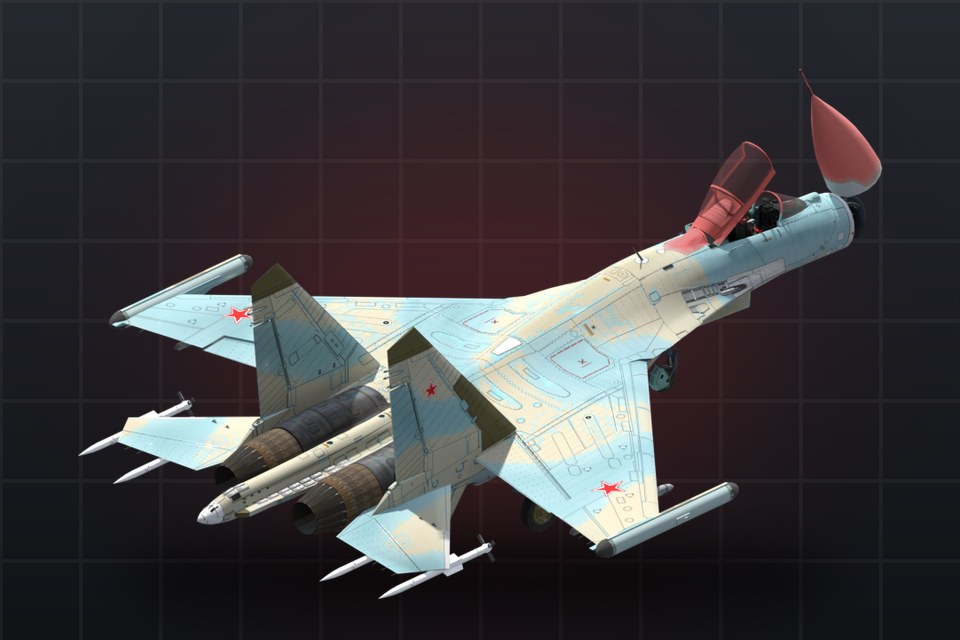
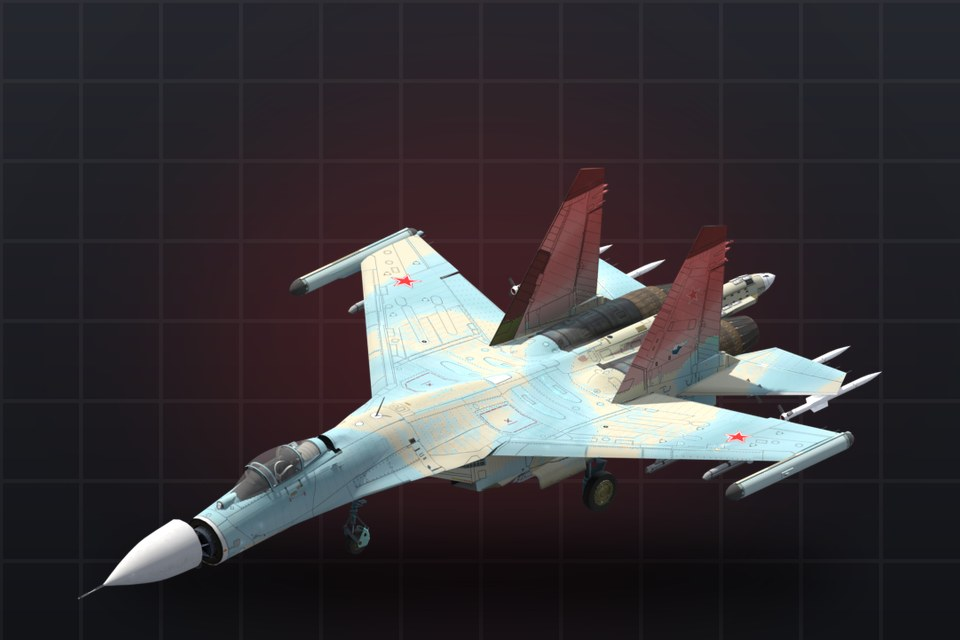
Sk-27 Flankard: close radome and canopy, team colour on the tail fins
The source model was posed for maintenance (radome swung up, canopy open)
and the team-colour box assumed the nose points the other way, so the jet
flew with a green open nose and cockpit and its catalogue view showed it
from behind. artsrc/units/meshes/fix_su27_pose.py closes both parts and
moves the team colour to the tail fins; sprites, stores, sidebar cameo and
catalogue picture re-rendered (cameo nose-first like the other jets).

Changed region(s): [[0.0938, 0.1562, 0.9375, 0.9375]]

diff --git a/artsrc/units/meshes/fix_su27_pose.py b/artsrc/units/meshes/fix_su27_pose.py
@@ -1,0 +1,106 @@
+"""
+The Sk-27 Flankard's source model (Sketchfab Su-27P) is posed for maintenance: the radome is swung up and the
+canopy is open, and both sit in the team-colour box (green in the renders). This closes them in sk-27-flankard.blend:
+the radome is turned so its axis points forward and its base ring meets the front of the hull; the canopy and its
+glass are turned down about their rear hinge until they lie level on the fuselage. The team-colour mask is moved
+from the cockpit to the tail fins (the import box assumed the nose points the other way).
+
+  blender -b artsrc/units/meshes/sk-27-flankard.blend -P artsrc/units/meshes/fix_su27_pose.py [-- --save]
+"""
+import sys
+
+import bpy
+import numpy as np
+from mathutils import Matrix, Vector
+
+SAVE = "--save" in sys.argv
+
+
+def obj(prefix):
+    return next(o for o in bpy.data.objects if o.type == "MESH" and o.name.startswith(prefix))
+
+
+def world_verts(o):
+    m = o.matrix_world
+    return np.array([tuple(m @ v.co) for v in o.data.vertices])
+
+
+def apply(o, transform):
+    """Apply a world-space 4x4 transform to the object's vertices (keeping the object transform)."""
+    m = o.matrix_world
+    inv = m.inverted()
+    t = inv @ transform @ m
+    for v in o.data.vertices:
+        v.co = t @ v.co
+    o.data.update()
+
+
+def rotation_between(a, b):
+    a, b = Vector(a).normalized(), Vector(b).normalized()
+    return a.rotation_difference(b).to_matrix().to_4x4()
+
+
+hull = obj("hull_")
+nose = obj("nose_Material")
+canopy = obj("canopy_")
+glass = obj("glass_")
+
+# Front opening of the hull: its foremost vertices (smallest y)
+hv = world_verts(hull)
+front = hv[hv[:, 1] < hv[:, 1].min() + 0.08]
+H = front.mean(axis=0)
+
+# Radome: a cone. Its tip is the vertex furthest from the hull front; its base ring is the widest end
+nv = world_verts(nose)
+c = nv.mean(axis=0)
+_, _, vt = np.linalg.svd(nv - c)
+axis = vt[0]
+proj = (nv - c) @ axis
+tip_end = 1 if abs(proj.max()) > abs(proj.min()) else -1
+# The base is the end whose cross-section is wider
+lo, hi = nv[proj < proj.min() + 0.08], nv[proj > proj.max() - 0.08]
+spread = lambda p: np.linalg.norm(p - p.mean(axis=0), axis=1).mean()
+base, tipside = (lo, hi) if spread(lo) > spread(hi) else (hi, lo)
+B = base.mean(axis=0)
+T = tipside.mean(axis=0)
+print("radome base", B.round(2), "tip", T.round(2), "hull front", H.round(2))
+rot = rotation_between(T - B, (0, -1, -0.04))
+move = Matrix.Translation(Vector(H)) @ rot @ Matrix.Translation(-Vector(B))
+apply(nose, move)
+
+# Canopy: hinged at its rear bottom; turn it down about the x axis until its long axis is level
+cv = np.vstack([world_verts(canopy), world_verts(glass)])
+rear = cv[cv[:, 1] > cv[:, 1].max() - 0.1]
+P = rear[rear[:, 2].argmin()]
+cc = cv.mean(axis=0)
+_, _, vt = np.linalg.svd(cv - cc)
+long_axis = vt[0] if abs(vt[0][1]) > abs(vt[1][1]) else vt[1]
+angle = np.arctan2(long_axis[2], abs(long_axis[1])) * (1 if long_axis[1] < 0 else -1)
+print("canopy hinge", P.round(2), "tilt deg", np.degrees(angle).round(1))
+hinge = Matrix.Translation(Vector(P)) @ Matrix.Rotation(angle, 4, "X") @ Matrix.Translation(-Vector(P))
+for o in (canopy, glass):
+	apply(o, hinge)
+
+# The team-colour mask (px_team, import_sketchfab.py) used JET_BOX "rear 30%, top 45%" as fractions of the bounds
+# from low y, but this model's nose points to -y, so the box sat on the cockpit and the raised radome/canopy. Redo it
+# on the real tail: the top 45% of the rearmost 30% (high y).
+meshes = [o for o in bpy.data.objects if o.type == "MESH" and o.data.attributes.get("px_team")]
+allv = np.vstack([world_verts(o) for o in meshes])
+lo, hi = allv.min(axis=0), allv.max(axis=0)
+y0 = hi[1] - 0.3 * (hi[1] - lo[1])
+z0 = lo[2] + 0.55 * (hi[2] - lo[2])
+for o in meshes:
+	v = world_verts(o)
+	inside = ((v[:, 1] >= y0) & (v[:, 2] >= z0)).astype(float)
+	if o in (nose, canopy, glass):
+		inside[:] = 0
+	o.data.attributes["px_team"].data.foreach_set("value", inside.tolist())
+	o.data.update()
+
+for o in (nose, canopy, glass):
+	v = world_verts(o)
+	print("now", o.name, v.min(axis=0).round(2), v.max(axis=0).round(2))
+
+if SAVE:
+	bpy.ops.wm.save_mainfile()
+	print("saved", bpy.data.filepath)
